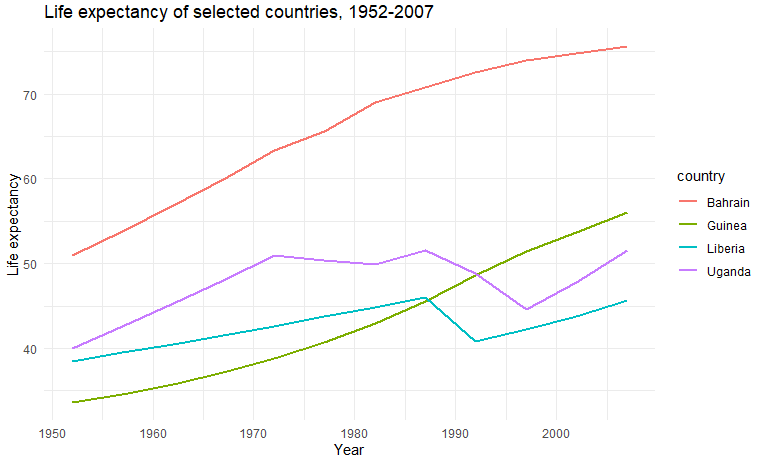
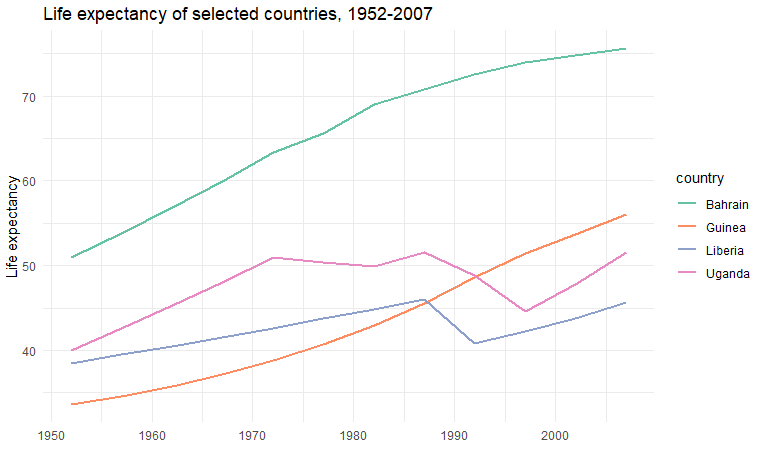
update slides

diff --git a/20251021-data-viz/slides.md b/20251021-data-viz/slides.md
@@ -22,7 +22,7 @@ Note:
 - Compare visualization tools <!-- .element class="fragment" -->
 
 
-notes: 
+notes:  
 
 ---
 
@@ -37,16 +37,12 @@ notes:
 
 Note:
 
-1.	Introduction. Describe dual purposes of visualization: a) to explore and identify patterns, and b) to communicate findings. Communicate the scope and purpose of the presentation: to provide a foundation to help students in future self-directed learning, with emphasis on quantitative data graphs used in academic publications. 
-2.	Principles of effective visualization. Introduce pre-attentive visual processing to explain why some visualizations are more effective than others. List considerations when creating graps and plots, with emphasis on clarity and simplicity (for sample content see https://ubc-library-rc.github.io/tableau-intro/content/introduction.html)
-3.	Graph/plot types for quantitative data visualization. Briefly introduce the following, with examples and use cases: histogram, bar plot, line graph, scatterplot, density plot, violin plot.  
-4.	Scatterplot example. Focus on scatterplots to illustrate some of the principles covered in section #2. Show multiple versions of the plot, incrementally improving it by changing the display and contextual elements. I suggest doing this in R and providing the code as a supporting resource, to illustrate how flexible the ggplot R package is. 
-5.	Tools for creating visualizations. Things to consider when choosing software for visualization (e.g. ease of use, reproducibility of output, design flexibility). Discuss three options in more detail (Excel, R, and Tableau) with examples and pros/cons of each.
-
 ---
 
 <!-- .slide: data-background="orange" data-transition="none-in slide-out" -->
 ## Why visualize data?
+
+Notes: So why _do_ we visualize data? I like to start with this basic question because visualizaton has different purposes depending on the context, so it's important to be clear about our intention.
 
 ---
 
@@ -54,6 +50,9 @@ Note:
 
 ![image of scatterplot](images/r_line_intro.png) <!-- .element class="fragment" -->
 
+Notes: In the context of this class and presentation, the main purpose of data visualization is to _communicate_. Aesthetics and creativity are components of well rounded visualizations, but when deciding how to present your data I encourage you to prioritize the clarity of your message. You will come across more artistic visualization examples, some of which may be beautiful and inspiring, but keep your audience and your message front of mind. What you see on the screen is an innovative visual representation of people's diets, but to understand it most users would need to read the fine print (scroll) and take time to _learn_ about the project. 
+
+Now compare that to a much more familiar line graph. More boring? Probably. But in many contexts our audiences won't take the time to _learn_ how to engage with our visualization. We need something that draws the viewer's attention straight to the point, almost intuitively, without much effort on their part. It's this less flashy type of visualization we'll focus on today.  
 
 --
  
@@ -67,8 +66,9 @@ gapminder %>%
   labs(
    title = "Life expectancy of selected countries, 1952-2007",
    subtitle = "Data from Gapminder R package, https://cran.r-project.org/package=gapminder",
-   x = "Year",
+   x = "",
    y = "Life expectancy") +
+   scale_color_brewer(palette = "Set2") +
   theme_minimal()
 ```
 
@@ -79,42 +79,51 @@ gapminder %>%
 > — *Stephen Few,* [*What is Data Visualization*](https://www.perceptualedge.com/blog/?p=2636)
 
 Note:
-This workshop emphasizes the role data visualization plays in the two activities identified above. Visualization makes it easier to explore and understand what’s going on in our data, fulfilling the **sense-making** purpose.  
-It can also improve the **communication** of our findings by drawing attention to the patterns, relationships, and stories we choose to highlight.  
-Data visualizations are often attractive, but it isn’t primarily their visual appeal that makes them work. A chart or graph that communicates effectively taps into the processes of perception and cognition. To create and recognize good visualizations it will help to understand a few concepts.
+Stephen Few and Alberto Cairo are two authors who have shaped my own approach to visualization (there's a resource slide at the end with their names). This quote from Stephen Few is a good place to start when considering the purpose of visualization. 
 
 ---
 
 <!-- .slide: data-transition="slide-in none-out" -->
 ## Purpose of visualization
 
-- Explore to identify trends and patterns <!-- .element class="fragment" -->
+- Explore to identify trends and patterns 
 - Communicate your findings to others <!-- .element class="fragment" -->
 
-Note: It's not just about making pretty things. Reinforce that we're doing this in an academic setting - it's about seeing, understanding, and communicating.
+Note: 
+- Skillfull visualization makes it easier to explore and understand what’s going on in our data: that's the **sense-making** purpose from Stephen Few's definition.  
+- And a good visualization can also improve the **communication** of our findings by drawing attention to the patterns, relationships, and stories we choose to highlight.  
+
+It's not just about making pretty things - it's about seeing, understanding, and communicating.
 
 ---
 
 <!-- .slide: data-background="orange" data-transition="none-in slide-out" -->
 ## Principles of Effective Visualization
 
+Note: So how does it work? Fortunately, there are a few basic principles that anyone can apply to enhance the clarity and effectiveness of visual representations of data.  
+
 ---
 
 <!-- .slide: data-transition="slide-in fade-out" -->
 ![](images/source.png) 
 
-Note:
+Note: 
+There are many content and design choices to make when going from source data about employment in Canada...
 
 ---
 
 <!-- .slide: data-transition="fade-in slide-out" -->
 ![](images/sample-graph.png)
 
+Note:
+...to a map that shows the fluctuation of unemployment rates in the first full year of COVID. This is a map I made using Tableau software, which we'll discuss later. Some of what makes this map work is that it taps into...  
+
 ---
 
 ### Preattentive processing
 
-The eye and brain’s ability to process certain visual properties almost instantly, without conscious effort.
+Note:
+...what's called preattentative processing. That's the "eye and brain’s ability to process certain visual properties almost instantly, without conscious effort." In other words, there are some kinds of visual cues that most people notice instantly, without thinking about it: it's just _there_. Using those cues intentionally, in service to your message, can strengthen your visualizations. 
 
 ---
 
@@ -124,9 +133,21 @@ The eye and brain’s ability to process certain visual properties almost instan
 <span class="small fragment">Figures on this and the next slide from Stephen Few, “Tapping the Power of Visual Perception”  
 [http://www.perceptualedge.com/articles/ie/visual_perception.pdf](http://www.perceptualedge.com/articles/ie/visual_perception.pdf)</span>
 
+Note:
+Let me illustrate. Tell me how many times the number five appears in this block. This task is possible, but it takes effort and it's easy to lose track. 
+
+Now try again. The question is almost absurd this time because it's so obvious: the five's are just there. Because they're darker the eye can pick them out instantly. 
+
+The figures on this and the next slide are again from Stephen Few. 
+
 ---
 
 ![](images/preattentive_attributes.png)
+
+Notes:
+It turns out that color intensity - making the fives darker - is just one of many preattentive properties we can employ to communicate visually. This slide illustrates several others, and they can be combined to encode multiple layers of information in a small visual field.   
+
+While they're all preattentive properties, some are better suited than others to certain tasks, and some might not be perceived the same by all viewers. There's an entire world to explore here, but I'll share a few tips.
 
 ---
 
@@ -135,12 +156,25 @@ Encoding quantities: **length** and **size**
 ![](images/size.png) <!-- .element: class="fragment" -->
 ![](images/length.png) <!-- .element: class="fragment" -->
 
+Notes:
+Both line length and size are preattentive properties shown on the previous slide, but when encoding quantities it's usually better to use length. That's because we tend not be be very good at estimating relative areas.
+
+click: in this case we can tell that B is bigger than A, but I find it hard to say be how much.
+
+click: the bar plot, in contrast, makes it crystal clear: A represents half as much as B. This is one reason to favor bar graphs over pie charts. 
+
 ---
 
 Remove unnecessary content to **focus** the viewer
-
 ![](images/cluttered.png) <!-- .element: class="fragment" -->
 ![](images/clean.png) <!-- .element: class="fragment" -->
+
+Note: 
+This next tip isn't about preattentive processing itself, but it's about clearing the way for the viewer. Stephen Few uses the phrase "reduce non-data ink." 
+
+click: this bar graph isn't bad, but it can be improved by removing unecessary or redundant elements, and by de-emphasizing others. Ideally the viewer will be able to focus more quickly on what you want to communicate...
+
+click: this second example has exactly the same information but is cleaner. The months move to the bottom: still there but out of the way. The percentage axis label isn't necessary because each bar is already labeled, so they're gone. The reader doesn't need exact figures, so the labels are rounded to a 10th of a percent. The result is a visualization that's more direct and pleasant to engage with.
 
 ---
 
@@ -148,12 +182,19 @@ Remove unnecessary content to **focus** the viewer
 
 <span class="small">Source: Jeffrey Shaffer, [https://www.tableau.com/about/blog/2016/4/examining-data-viz-rules-dont-use-red-green-together-53463](https://www.tableau.com/about/blog/2016/4/examining-data-viz-rules-dont-use-red-green-together-53463)</span>
 
+Notes:
+So far the examples I've show are just one color, but if you're using multiple colors be attentive to color blindness. It can be tempting to use the colors that look best to you, but an estimated 8% of men and 2% of women experience some form of red/green colorblindness. In this image, the palette on the right is a similuation of what someone with colorblindness might see when you use the palette on the left. To safeguard agains this, many visualization tools provide palettes that are colorblind friendly. 
+
+
 ---
 
 Use colors intentionally to **encode information**
 
 ![](images/multicolor.png) <!-- .element: class="fragment" -->
 ![](images/singlecolor.png) <!-- .element: class="fragment" -->
+
+Note:
+Another tip about color: it's a useful way to encode information, so try not to waste it where it's not necessary. In this example the months are already identified by their numbers and sequence. In such a case, the decision to add color is purely aesthetic and doesn't carry a data message. But if you save color to encode something else you have another tool at your disposal: for example, to call your viewer's attention to something special about the month of June.
 
 ---
 
@@ -167,6 +208,9 @@ Provide enough context to **orient the viewer**
 - author
 - ...
 
+Note:
+My last tip for data visualizations is to remember to give enough context. You don't want to frustrate a viewer, it's important to give them everything they need to make sense of the visualizaition and understand your message. Sometimes that means your image will be more cluttered than you'd like... always keep the communicative purpose of your visualization in mind, and prioritize understanding over aesthetic choices.
+
 ---
 
 <!-- .slide: data-background="ligthblue" data-transition="slide-in none-out" -->
@@ -179,31 +223,16 @@ Provide enough context to **orient the viewer**
 
 Note:
 
-When creating a visualization, ask:
-
-- What’s the main message?  
-- Does each element serve that message?  
-- Could I remove anything without losing meaning?  
-
-Reducing non-data ink, prove enough context to present data with integrity
-Visual variety can be appealing, but ensure that it also serves the communicative and sense-making purposes of your visualizations.  
-We increase the credibility and integrity of our work by citing data sources and avoiding intentionally misleading displays.  
-(For more about this see Alberto Cairo’s book *[How Charts Lie: Getting Smarter About Visual Information](http://resolve.library.ubc.ca/cgi-bin/catsearch?bid=10081648)*.)
-
-Effective visuals:
-- Use pre-attentive cues to emphasize key patterns  
-- Reduce cognitive effort  
-- Guide the viewer’s eye intentionally  
-
-Ineffective visuals:
-- Overload the viewer  
-- Create confusion or distraction  
+To reinforce that message, here are some guiding principles.
 
 ---
 
 <!-- .slide: data-background="orange" data-transition="none-in slide-out" -->
 # Plot types 
 
+Notes: 
+Let's shift gears. Now you have some ideas about how to use shape, color, length, and other preattentive properties. Let's look at some common plot types. 
+ 
 ---
 
 <div style="padding: 5%; background-color:BlanchedAlmond;">
@@ -211,6 +240,7 @@ Ineffective visuals:
 <p class="small">"For each of 142 countries [...] values for life expectancy, GDP per capita, and population, every five years, from 1952 to 2007."<br/><br/> <a style="color:blue" href="https://cran.r-project.org/package=gapminder">https://cran.r-project.org/package=gapminder</a></p>
 </div>
 
+Notes: data source
 
 ---
 
@@ -364,7 +394,7 @@ gapminder_subset %>%
 ### Line graph
 Show **trend over a continuous variable** (often time)
 
-![line graph example](images/r_line.png)
+![line graph example](images/r_line_intro.png)
 
 
 Note:
